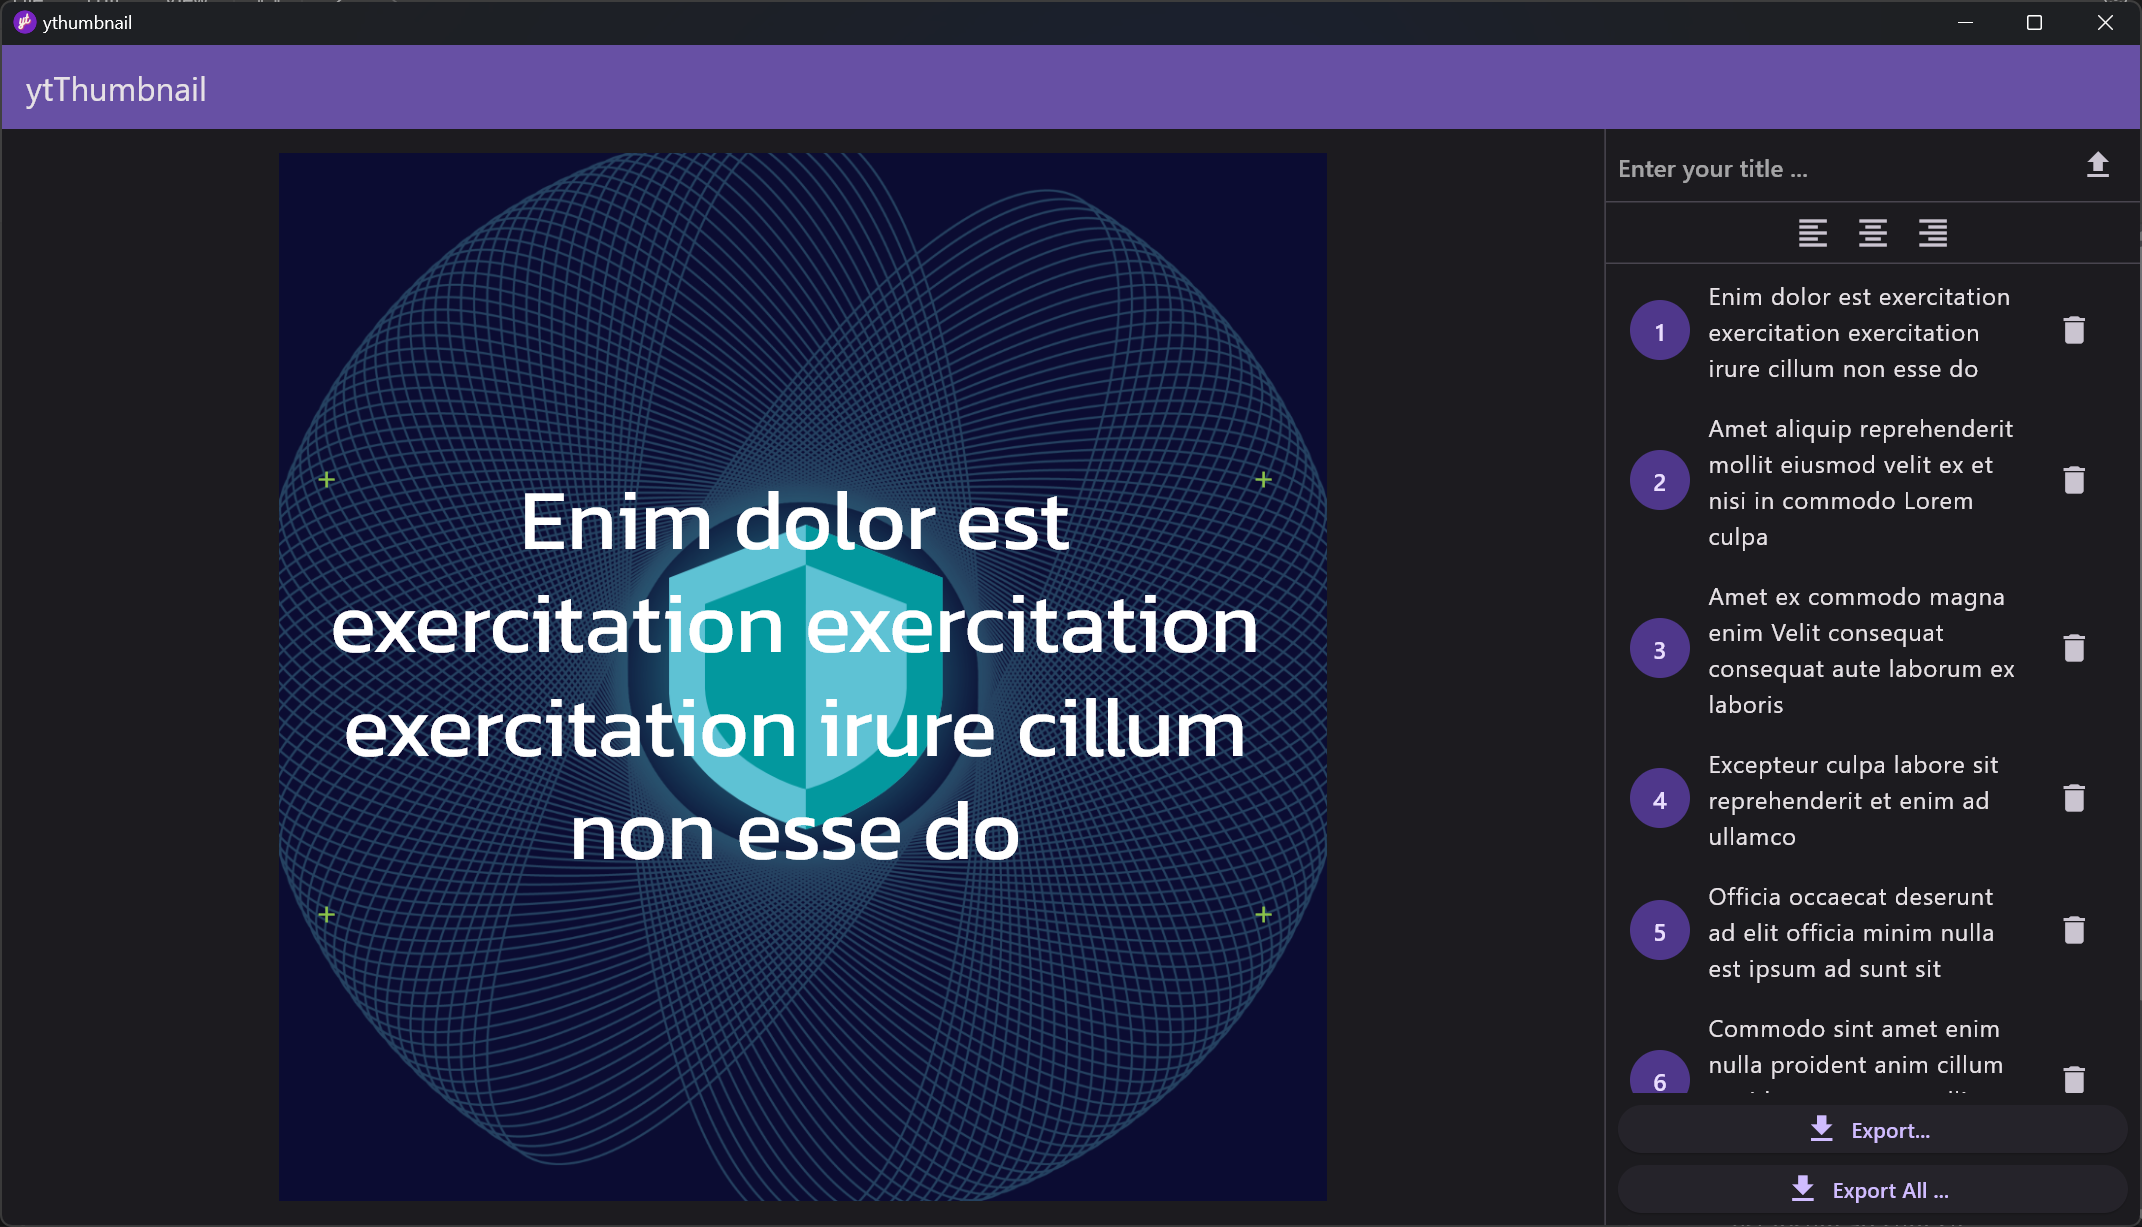
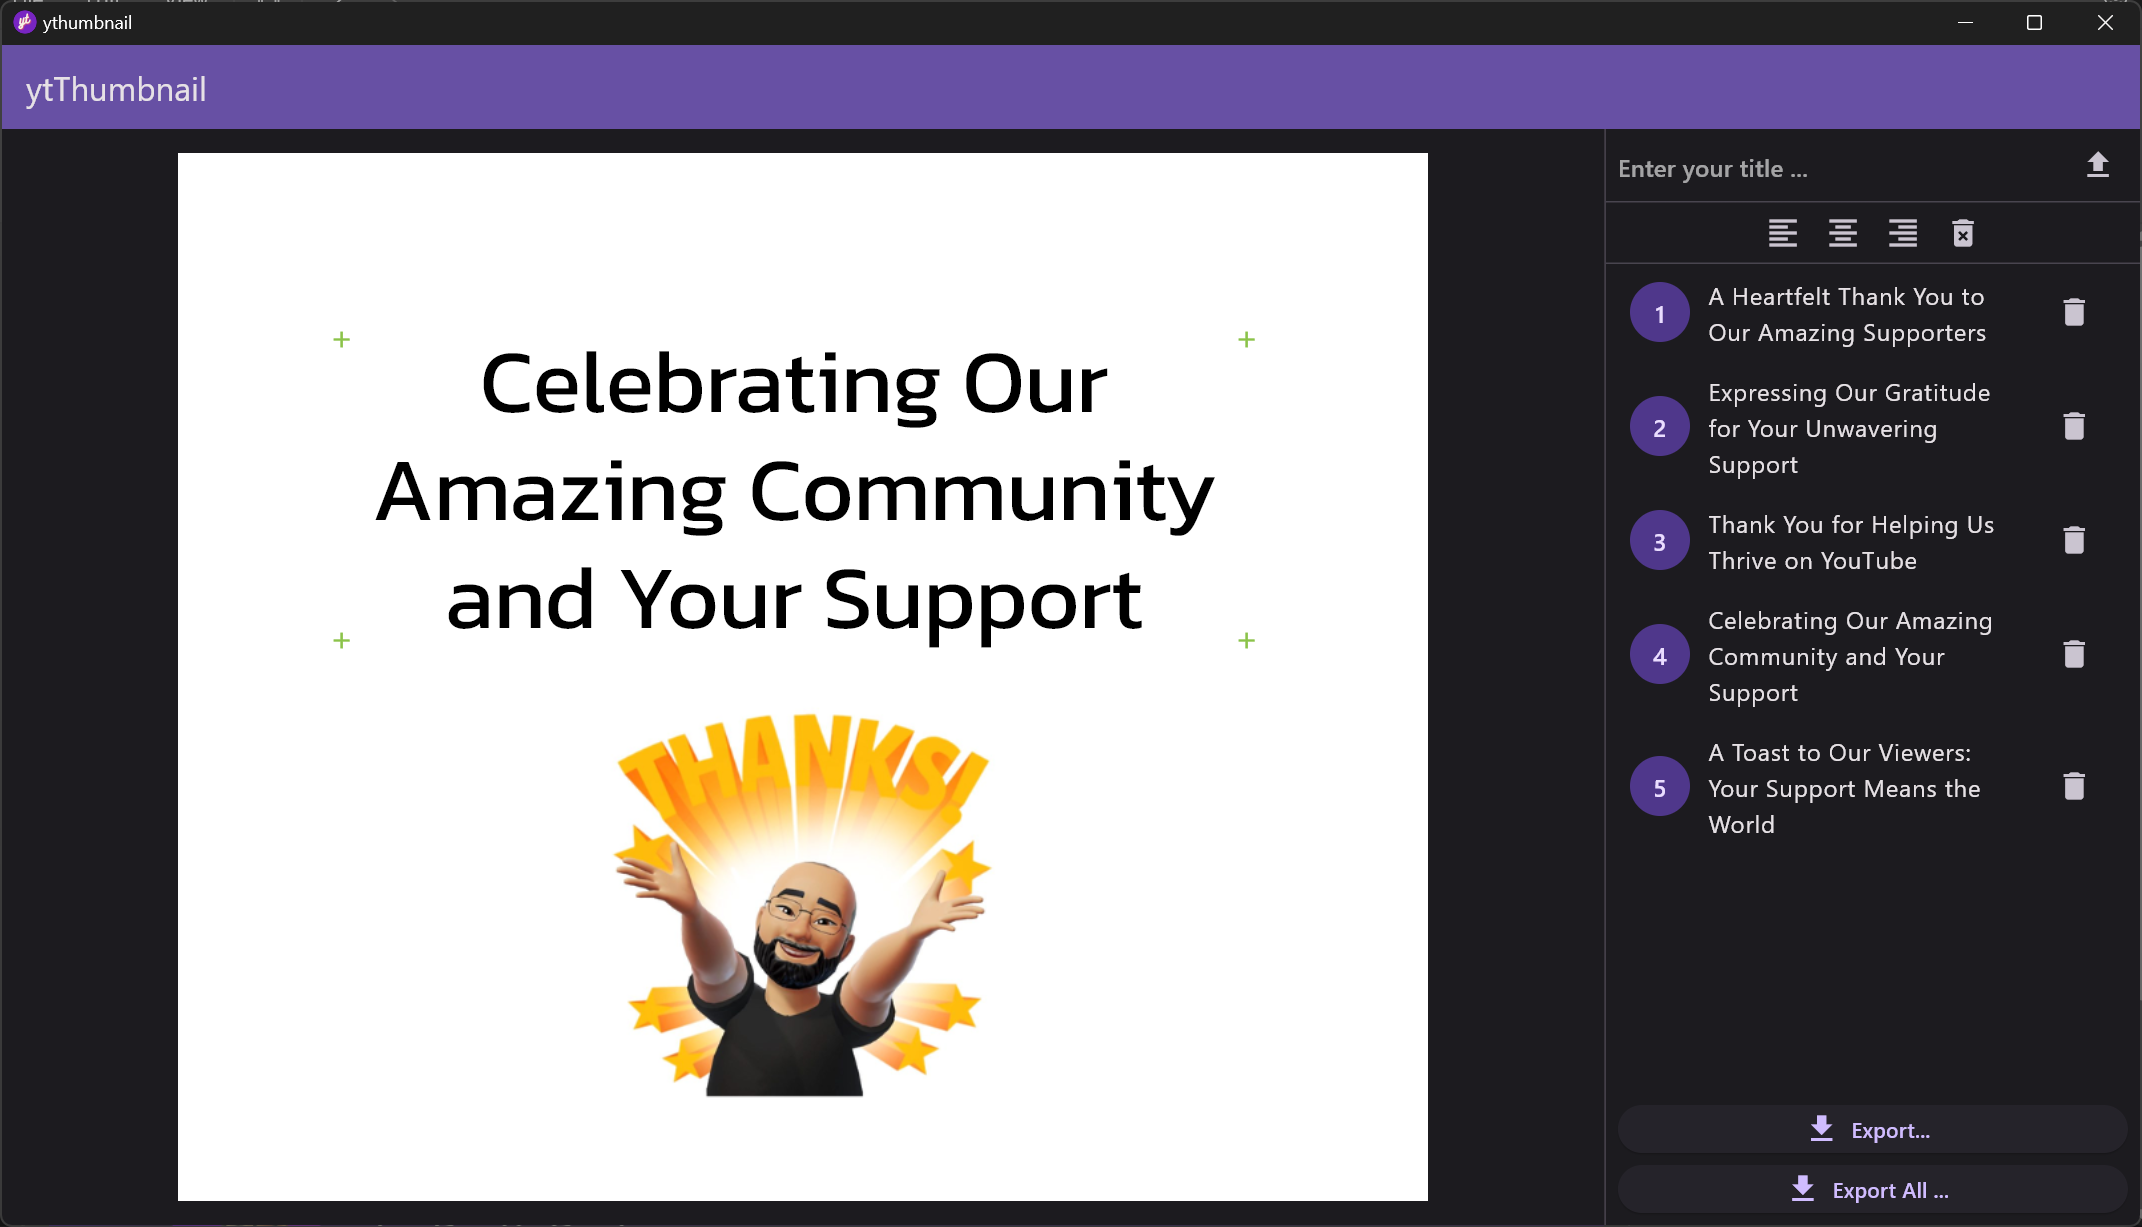
update readme and screenshots

diff --git a/lib/app/modules/home/views/base_canvas_view.dart b/lib/app/modules/home/views/base_canvas_view.dart
@@ -1,10 +1,8 @@
 import 'dart:developer';
 
 import 'package:auto_size_text/auto_size_text.dart';
-import 'package:flutter/cupertino.dart';
 import 'package:flutter/material.dart';
 import 'package:flutter/services.dart';
-import 'package:flutter/widgets.dart';
 import 'package:gap/gap.dart';
 
 import 'package:get/get.dart';
@@ -199,7 +197,7 @@ class BaseCanvasView extends GetView<HomeController> {
       builder: (context) {
         return Dialog(
           child: Container(
-            padding: EdgeInsets.all(16.0),
+            padding: const EdgeInsets.all(16.0),
             width: MediaQuery.of(context).size.width * 0.8,
             height: MediaQuery.of(context).size.height * 0.8,
             child: Column(
@@ -209,22 +207,22 @@ class BaseCanvasView extends GetView<HomeController> {
                   'Choose preset image',
                   style: Theme.of(context).textTheme.headlineMedium,
                 ),
-                Gap(16.0),
+                const Gap(16.0),
                 Expanded(
                   child: GridView.builder(
                     itemCount: baseImages.length,
-                    gridDelegate: SliverGridDelegateWithFixedCrossAxisCount(
+                    gridDelegate: const SliverGridDelegateWithFixedCrossAxisCount(
                       crossAxisCount: 4,
                       mainAxisSpacing: 4.0,
                       crossAxisSpacing: 4.0,
                     ),
                     itemBuilder: (context, index) {
-                      return GridTile(
+                      return Card(
+                        clipBehavior: Clip.antiAliasWithSaveLayer,
                         child: InkWell(
                           onTap: () =>
                               loadPresetImage(image: baseImages[index]),
-                          child: Card(
-                            clipBehavior: Clip.antiAliasWithSaveLayer,
+                          child: GridTile(
                             child: Image.asset(
                               baseImages[index],
                               fit: BoxFit.contain,
@@ -239,7 +237,7 @@ class BaseCanvasView extends GetView<HomeController> {
                   alignment: Alignment.centerRight,
                   child: FilledButton(
                     onPressed: () => Get.back(),
-                    child: Text('Close'),
+                    child: const Text('Close'),
                   ),
                 ),
               ],

diff --git a/lib/app/modules/home/views/title_list_view.dart b/lib/app/modules/home/views/title_list_view.dart
@@ -86,6 +86,12 @@ class TitleListView extends GetView<HomeController> {
                         icon: const Icon(
                           Icons.delete_forever,
                         ),
+                      ),
+                      IconButton(
+                        onPressed: () => newCanvas(),
+                        icon: const Icon(
+                          Icons.edit_document,
+                        ),
                       )
                     ],
                   )
@@ -438,5 +444,10 @@ class TitleListView extends GetView<HomeController> {
 
   clearListTitle() {
     controller.listTitle.clear();
+  }
+
+  newCanvas() {
+    controller.baseImage = null;
+    controller.update(['canvas']);
   }
 }

diff --git a/README.md b/README.md
@@ -27,11 +27,23 @@ App screen
 
 ![](/screenshots/export_3.png)
 
+Preset images
+
+![](/screenshots/export_6.png)
+
+Import title
+
+![](/screenshots/export_7.png)
+
+Use Google Generative AI to generate SEO titles
+
+![](/screenshots/export_8.png)
+
 App screen
 
 ![](/screenshots/export_4.png)
 
-Result thumbnail image 2
+App screen with another image
 
 ![](/screenshots/export_5.png)
 
